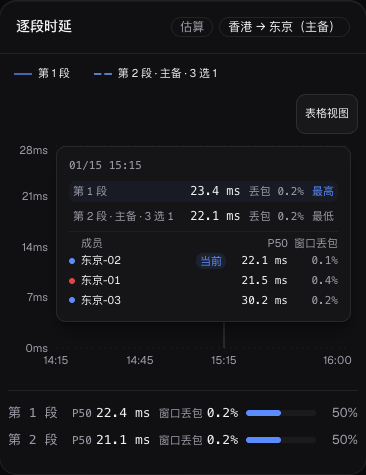
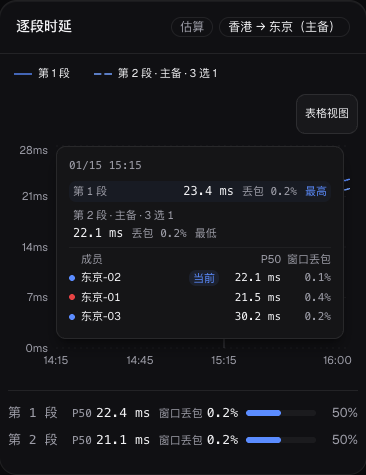
feat(web): explain a shared segment without drawing every member
the overall card notes that multiple paths are summed by hop medians, segment titles
name the strategy and member count, and hovering shows each member's latency and
loss with the selected one first.

diff --git a/web/src/components/overview/ChainSegmentTrendChart.tsx b/web/src/components/overview/ChainSegmentTrendChart.tsx
@@ -328,7 +328,7 @@ function SegmentTrendTooltip({
       data-segment-tooltip
       role="tooltip"
       aria-live="polite"
-      className="min-w-52 max-w-80"
+      className="min-w-52 max-w-72 sm:max-w-80"
     >
       <ChartTooltipHeading>
         {formatChainTime(row.ts, bucket)}
@@ -345,11 +345,16 @@ function SegmentTrendTooltip({
                 data-highest={isHighest ? "true" : undefined}
                 data-lowest={isLowest ? "true" : undefined}
                 className={cn(
-                  "flex items-center justify-between gap-4 rounded-sm px-1 py-0.5",
+                  // 段标题可能带策略与台数（英文更长）：空间不够时让数值换到
+                  // 第二行，而不是把 Highest / 丢包裁掉。
+                  "flex flex-wrap items-baseline justify-between gap-x-4 gap-y-0.5 rounded-sm px-1 py-0.5",
                   isHighest && "bg-primary/5",
                 )}
               >
-                <span className="shrink-0 text-[11px] text-muted-foreground">
+                <span
+                  className="min-w-0 text-[11px] text-muted-foreground"
+                  title={titleFor(item.segment)}
+                >
                   {titleFor(item.segment)}
                 </span>
                 <span className="flex shrink-0 items-baseline gap-2 font-mono tabular-nums">
